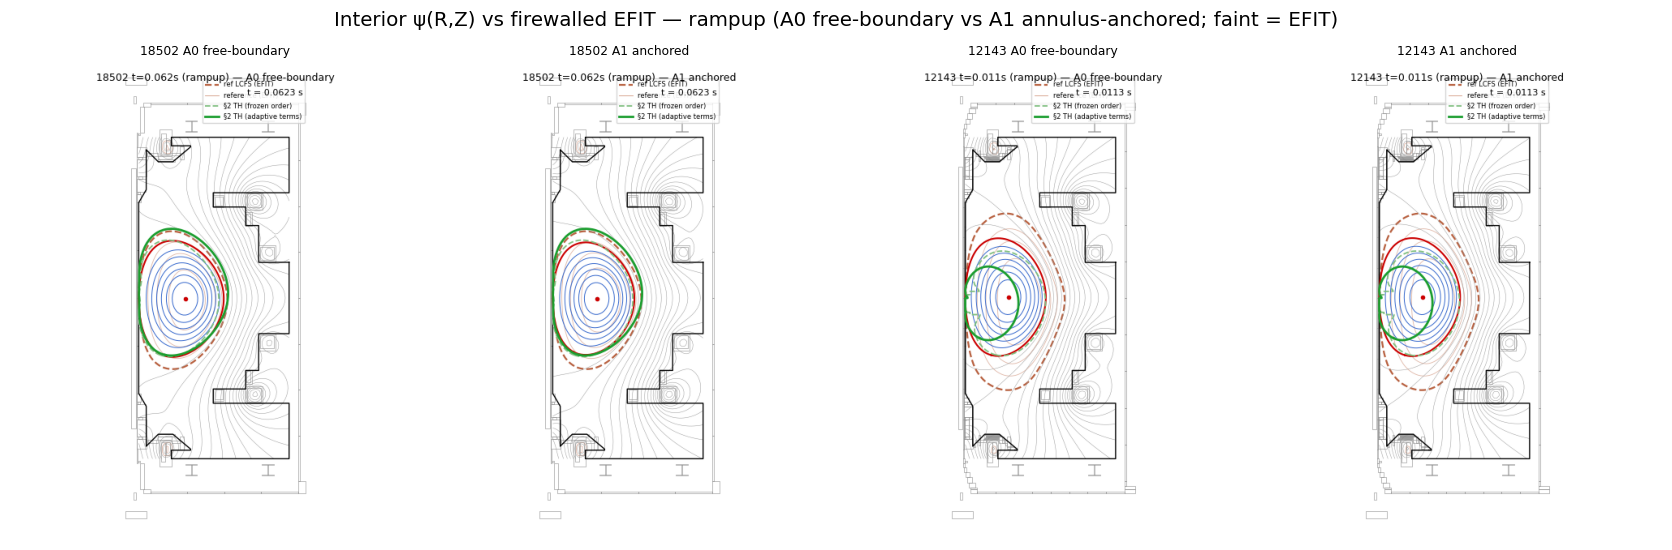
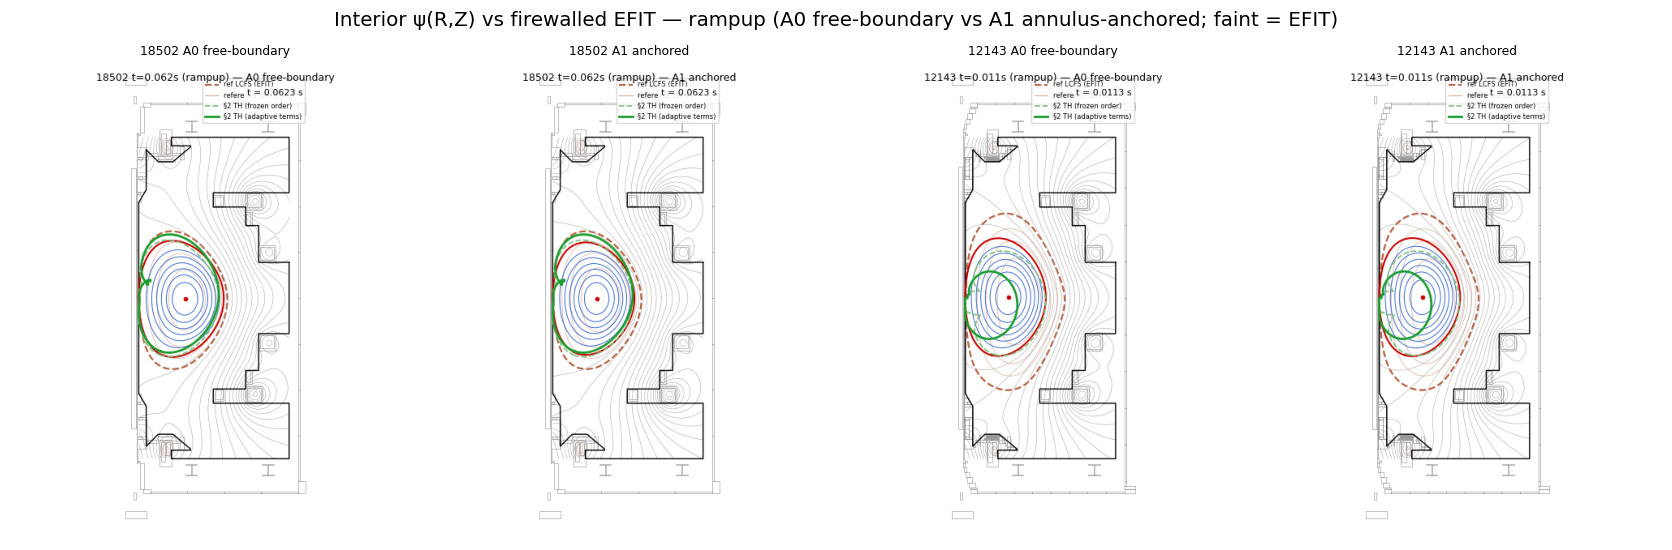
fix(boundary-harmonic): always keep n<=1 position dipoles (h0/h1c/h1s) in adaptive term selection — CV-gate only n>=2; restores vertical alignment

diff --git a/tests/latent/test_adaptive_order.py b/tests/latent/test_adaptive_order.py
@@ -88,6 +88,32 @@ def test_termwise_keeps_symmetric_drops_asymmetric():
     assert not sel[isn]  # noise-only asymmetric mode dropped
 
 
+def test_termwise_always_keeps_position_dipole_terms():
+    """The n≤1 terms (h0, h1c, h1s) set the plasma's radial + VERTICAL position
+    and must NEVER be dropped, even when the sensors weakly constrain the
+    up-down-asymmetric h1s — otherwise the boundary mis-places vertically."""
+    rng = np.random.default_rng(7)
+    n = 60
+    ang = np.linspace(0, 2 * np.pi, n, endpoint=False)
+    sr = 0.9 + 0.7 * np.cos(ang)
+    sz = 0.7 * np.sin(ang)
+    cfg = HarmonicFitConfig(pole_r=0.5, order=3)
+    a_max = harmonic_sensor_matrix(sr, sz, np.full(n, 90.0), np.zeros(n, bool), cfg)
+    labels = harmonic_labels(3)
+    # signal has NO vertical asymmetry (h1s truly ~0) — CV would want to drop it
+    true = np.zeros(a_max.shape[1])
+    true[0] = 1.0
+    true[labels.index("h1c")] = 1.5
+    clean = a_max @ true
+    scale = 0.02 * np.abs(clean).std() * np.ones(n) + 1e-9
+    measured = clean + rng.standard_normal(n) * scale
+    sel = select_harmonic_terms_cv(
+        a_max, measured, np.zeros(n), np.ones(n, bool), scale
+    )
+    for name in ("h0", "h1c", "h1s"):
+        assert sel[labels.index(name)], f"{name} must be retained (position term)"
+
+
 def test_cv_keeps_full_order_when_well_constrained():
     """A clean order-3 signal with low noise and many sensors is CV-stable at 3."""
     sr, sz, sang, is_flux = _sensors(n=80, seed=3)

diff --git a/imas_ambix/latent/boundary_harmonic.py b/imas_ambix/latent/boundary_harmonic.py
@@ -520,6 +520,7 @@ def select_harmonic_terms_cv(
     cv_folds: int = 5,
     seed: int = 0,
     min_improve: float = 1e-3,
+    keep_min_order: int = 1,
 ) -> np.ndarray:
     """Symmetry-aware harmonic TERM selection by forward held-out-sensor CV.
 
@@ -543,7 +544,15 @@ def select_harmonic_terms_cv(
     n_col = a_sens_max.shape[1]
     keep_rows = np.where(np.asarray(mask, dtype=bool) & np.isfinite(measured))[0]
     sel = np.zeros(n_col, dtype=bool)
-    sel[0] = True  # h0 always retained
+    # ALWAYS keep the low-order position terms (degree ≤ keep_min_order): the n=0
+    # level and the n=1 cos/sin dipole modes set the plasma's radial and VERTICAL
+    # position — h1s in particular is the up-down / vertical-shift mode.  The
+    # overfit ripple lives in the HIGH orders (n≥2), so only those are CV-gated;
+    # dropping a weakly-observed but physically-essential h1s would mis-place the
+    # boundary vertically (the offset the terms carry).  degree(col i) = (i+1)//2.
+    for i in range(n_col):
+        if (0 if i == 0 else (i + 1) // 2) <= keep_min_order:
+            sel[i] = True
     if keep_rows.size < max(cv_folds, 4) or n_col <= 1:
         return sel
     b = np.nan_to_num(np.asarray(measured, np.float64)) - np.nan_to_num(
